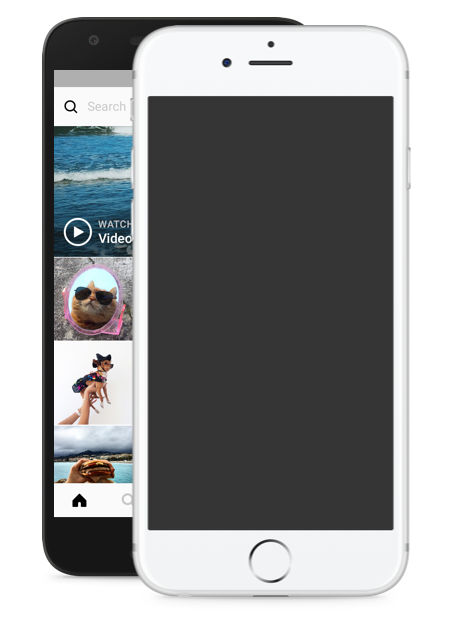
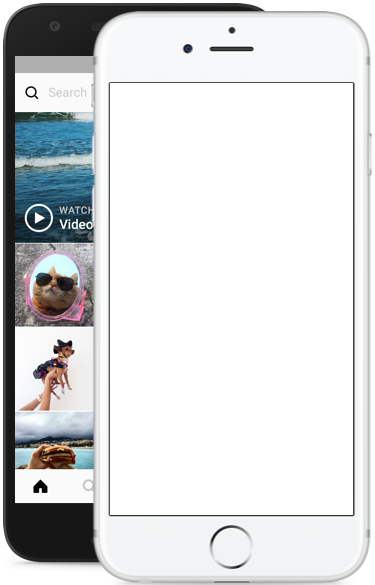
Fim da tela de cadastro
Só esperando novas imagens para o smartphone.

diff --git a/View/index.html b/View/index.html
@@ -6,50 +6,76 @@
     <meta http-equiv="X-UA-Compatible" content="ie=edge">
     <link rel="icon" href="https://www.instagram.com/static/images/ico/favicon.ico/36b3ee2d91ed.ico" type="image/x-icon"/>
     <link rel="stylesheet" href="./css/reset.css">
+    <link rel="stylesheet" href="./css/aux.css">
     <link rel="stylesheet" href="./css/style.css">
     <script src="./js/all.js"></script>
-    <title>Instagram</title>
+    <title>InstaMVP</title>
 </head>
 <body>
-    <!--<img src="./images/phone.png" alt="Phone" class="phone">-->
+    <div class="content">
+        <figure class="phone">
+            <img src="./images/phone.png" alt="Phone">
+        </figure>
 
-    <div class="box mt50">
-        <div class="logo">
-            <img src="./images/logo.png" alt="Instagram">
+        <div class="form mt30">
+            <div class="box">
+                <div class="logo">
+                    <img src="./images/logo.png" alt="Instagram">
+                </div>
+                
+                <h2 class="content">Cadastre-se para ver fotos e vídeos dos seus amigos.</h2>
+                <button class="btn-facebook">
+                    <i class="fab fa-facebook-square"></i>
+                    <p>Entrar com o Facebook</p>
+                </button>
+
+                <div class="ou">
+                    <div class="row"></div>
+                    <p>OU</p>
+                    <div class="row"></div>
+                </div>
+
+                <form action="" method="post">
+                    <input type="text" placeholder="Número do celular ou email" name="phoneMail">
+                    <input type="text" placeholder="Nome completo" name="completeName">
+                    <input type="text" placeholder="Nome de usuário" name="user">
+                    <input type="password" placeholder="Senha" name="password">
+                    
+                    <input type="submit" value="Cadastrar-se">
+                </form>
+
+                <p class="politica content">Ao se cadastrar, você concorda com nossos <strong>, Política de Dados e Política de Cookies.</strong></p>
+            </div>
+
+            <div class="box">
+                <p class="conecte">Tem uma conta? <a href="login.html">Conecte-se</a></p>
+            </div>
+
+            <div class="aplicativo">
+                <p>Obtenha o aplicativo</p>
+                <img src="./images/appStore.png" alt="App Store">
+                <img src="./images/googlePlay.png" alt="Google Play">
+            </div>
         </div>
-        
-        <h2 class="content">Cadastre-se para ver fotos e vídeos dos seus amigos.</h2>
-        <button class="btn-facebook">
-            <i class="fab fa-facebook-square"></i>
-            <p>Entrar com o Facebook</p>
-        </button>
 
-        <div class="ou">
-            <div class="row"></div>
-            <p>OU</p>
-            <div class="row"></div>
-        </div>
-
-        <form action="" method="post">
-            <input type="text" placeholder="Número do celular ou email" name="phoneMail">
-            <input type="text" placeholder="Nome completo" name="completeName">
-            <input type="text" placeholder="Nome de usuário" name="user">
-            <input type="password" placeholder="Senha" name="password">
-            
-            <input type="submit" value="Cadastrar-se">
-        </form>
-
-        <p class="politica content">Ao se cadastrar, você concorda com nossos <strong>, Política de Dados e Política de Cookies.</strong></p>
+        <footer class="footer">
+                <ul>
+                    <li>sobre nós</li>
+                    <li>suporte</li>
+                    <li>imprensa</li>
+                    <li>api</li>
+                    <li>carreiras</li>
+                    <li>privacidade</li>
+                    <li>termos</li>
+                    <li>diretório</li>
+                    <li>perfis</li>
+                    <li>hashtags</li>
+                    <li>idioma</li>
+                </ul>
+                <p>© 2019 instagram de guilherme caires e jefferson eloy</p>
+        </footer>
     </div>
 
-    <div class="box">
-        <p class="conecte">Tem uma conta? <a href="login.html">Conecte-se</a></p>
-    </div>
 
-    <div class="aplicativo">
-        <p>Obtenha o aplicativo</p>
-        <img src="./images/appStore.png" alt="App Store">
-        <img src="./images/googlePlay.png" alt="Google Play">
-    </div>
 </body>
 </html>

diff --git a/View/css/style.css b/View/css/style.css
@@ -1,5 +1,21 @@
 .phone{
-    display: inline-block;
+    float: left;
+    margin: 119px 0 0 124px;
+}
+
+.form{
+    float: right;
+    margin-right: 120px;
+}
+
+.box{
+    width: 350px; 
+    background-color: #fff;
+    color: #999;
+    border: 1px solid #e6e6e6;
+    margin: 10px 0;
+    padding: 10px 0;
+    text-align: center;
 }
 
 .logo img{
@@ -8,23 +24,14 @@
     margin: 15px 0 10px 0;
 }
 
-.box{
-    width: 350px; 
-    background-color: #fff;
-    color: #999;
-    border: 1px solid #e6e6e6;
-    margin: 40px auto 0 auto;
-    padding: 10px 0;
-    text-align: center;
-    /*display: inline-block;*/
-}
-
 .box h2{
     font-size: 17px;
     width: 265px;
 }
 
-.box input{
+.box input,
+.box button
+{
     width: 250px;
     padding: 8px 0;
     background: #fafafa;
@@ -36,7 +43,7 @@
 {
     border: 1px solid #e6e6e6;
     margin: 3px 0;
-    padding: 12px 0 7px 8px;
+    padding: 10px;
 }
 
 .box input[type = "text"]:focus,
@@ -68,14 +75,6 @@
     font-size: 13px;
 }
 
-.ou .row{
-    background-color: #e9e9e9;
-    width: 110px;
-    height: 1px;
-    margin-bottom: 4px;
-    display: inline-block;
-}
-
 .btn-facebook .fa-facebook-square, .btn-facebook p{
     display: inline-block;
 }
@@ -96,23 +95,45 @@
 .politica{
     width: 235px;
     font-size: 14px;
+    padding-bottom: 35px;
 }
 
 .conecte{
     padding: 15px 0;
+    font-size: 14px;
     color: #262626;
 }
 
 .aplicativo{
-    width: 400px;
+    width: 352px;
     margin: 0 auto;
     text-align: center;
+    font-size: 14px;
 }
 
 .aplicativo img{
-    width: 150px;
+    width: 135px;
 }
 
 .aplicativo p{
     padding: 15px 0;
+}
+
+.footer{
+    margin: 100px 0 50px 0;
+    float: left;
+    text-transform: uppercase;
+    font-size: 12px;
+    font-weight: 900;
+}
+
+.footer ul li{
+    display: inline-block;
+    padding: 0 12px 10px 0;
+    cursor: pointer;
+    color: #003569;
+}
+
+.footer p{
+    color: #999;
 }

diff --git a/View/css/aux.css b/View/css/aux.css
@@ -1,0 +1,16 @@
+.content{
+    width: 994px;
+    margin: 0 auto;
+}
+
+.mt30{
+    margin-top: 30px;
+}
+
+.row{
+    background-color: #e9e9e9;
+    width: 110px;
+    height: 1px;
+    margin-bottom: 4px;
+    display: inline-block;
+}

diff --git a/View/css/reset.css b/View/css/reset.css
@@ -18,10 +18,6 @@ ul{
     list-style: none;
 }
 
-.content{
-    margin: 0 auto;
-}
-
 ::placeholder { 
     color: #9c9c9c;
     font-size: 12px; 
